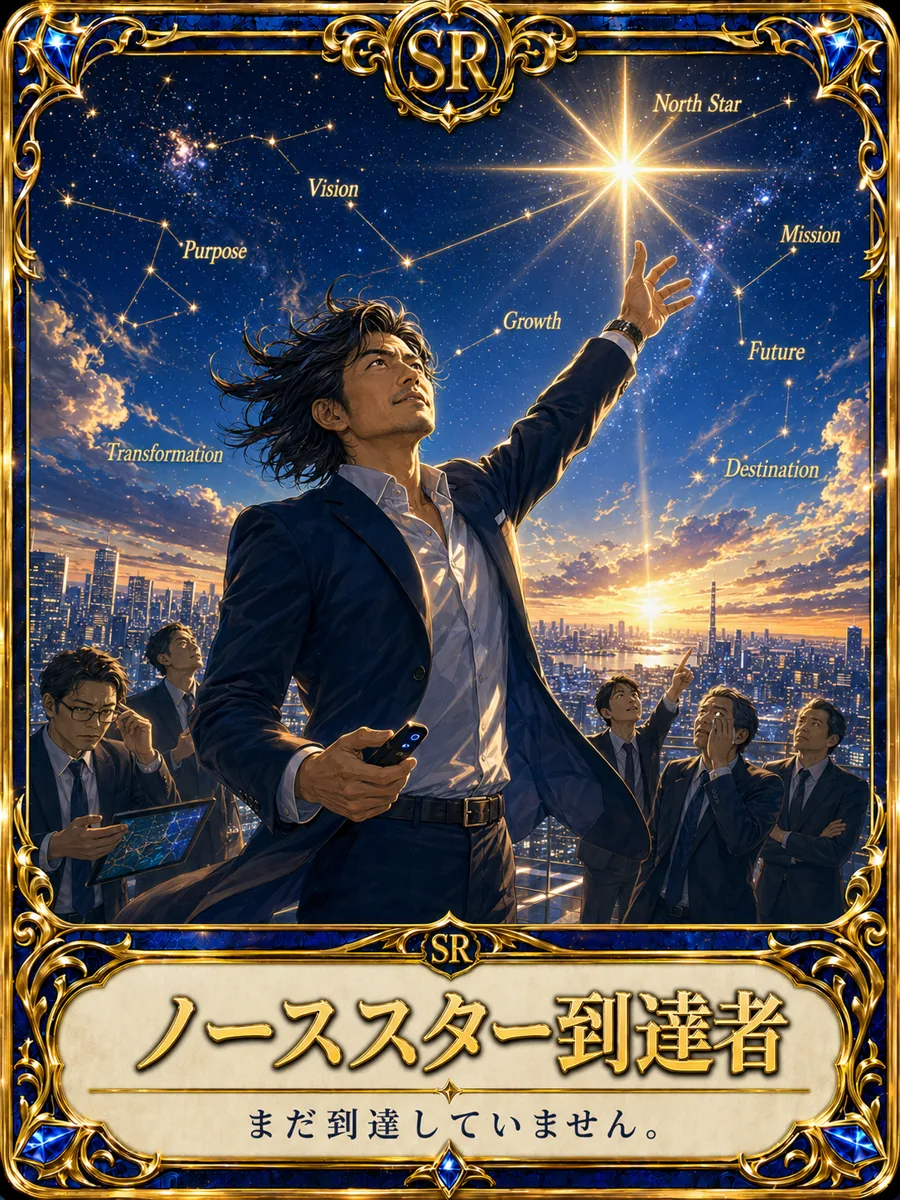
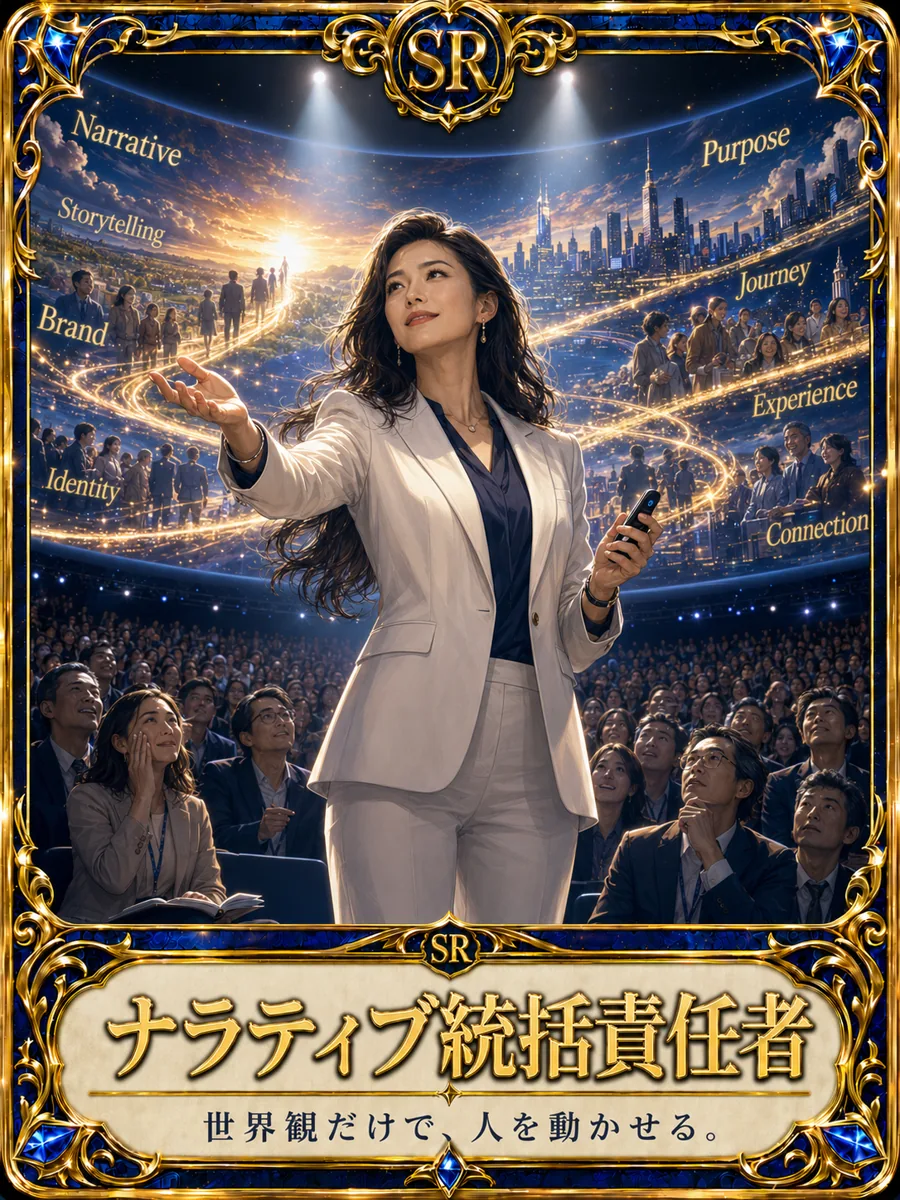
fix: ナラティブ統括責任者のカード画像を差し替え
原本#11.pngが#10.png(ノーススター到達者)とバイト単位で重複していたため、
narrative_officerの画像がnorthstar_reacherと同じ絵柄になっていた不具合を修正。
ユーザーが正しい原本を差し替え後、同じ手順(scale=-1:1200・quality82)で
11-narrative-officer.webpを再生成。titles.ts側のID/パス対応に誤りはなかった。

diff --git a/docs/title-card-assets.md b/docs/title-card-assets.md
@@ -8,9 +8,13 @@
 C:\Users\kousu\Downloads\#1.png 〜 #20.png
 ```
 
-- 原本は`#1.png`〜`#20.png`の連番（欠番・重複なし、確認済み）
+- 原本は`#1.png`〜`#20.png`の連番（ファイル数として欠番・重複なし）
 - 原本サイズ: 1086×1200px（実際は1086×1448px、3:4縦長）、容量2.0〜3.1MB/枚（原本合計 約54.6MB）
 - 原本は上書き・削除せず、ダウンロードフォルダにそのまま保持する
+
+### 修正履歴
+
+- **2026-07-16発覚・同日修正済み**: `#10.png`と`#11.png`が原本の時点でバイト単位の重複ファイルになっており、`11-narrative-officer.webp`（ナラティブ統括責任者）の中身が`10-northstar-reacher.webp`（ノーススター到達者）と同一になっていた。`src/data/titles.ts`のIDと画像パスのマッピング自体に誤りはなく、原因は原本画像側の重複のみだった。ユーザーが正しい原本を`#11.png`として差し替え後、同じ変換手順（`scale=-1:1200`・quality82）で`11-narrative-officer.webp`を再生成し解消した。
 
 ## 公開用画像の場所
 

diff --git a/docs/title-catalog.md b/docs/title-catalog.md
@@ -108,7 +108,7 @@ export type UnlockedTitleRecord = {
 | 8 | `aspiration_manager` | `08-aspiration-manager.webp` | `/images/titles/08-aspiration-manager.webp` | 900×1200 | 257KB | Created | Implemented |
 | 9 | `milestone_director` | `09-milestone-director.webp` | `/images/titles/09-milestone-director.webp` | 900×1200 | 263KB | Created | Implemented |
 | 10 | `northstar_reacher` | `10-northstar-reacher.webp` | `/images/titles/10-northstar-reacher.webp` | 900×1200 | 249KB | Created | Implemented |
-| 11 | `narrative_officer` | `11-narrative-officer.webp` | `/images/titles/11-narrative-officer.webp` | 900×1200 | 249KB | Created | Implemented |
+| 11 | `narrative_officer` | `11-narrative-officer.webp` | `/images/titles/11-narrative-officer.webp` | 900×1200 | 248KB | Created | Implemented |
 | 12 | `corporate_planning_prodigy` | `12-corporate-planning-prodigy.webp` | `/images/titles/12-corporate-planning-prodigy.webp` | 900×1200 | 256KB | Created | Implemented |
 | 13 | `capability_head` | `13-capability-head.webp` | `/images/titles/13-capability-head.webp` | 900×1200 | 292KB | Created | Implemented |
 | 14 | `synergy_executive` | `14-synergy-executive.webp` | `/images/titles/14-synergy-executive.webp` | 900×1200 | 315KB | Created | Implemented |